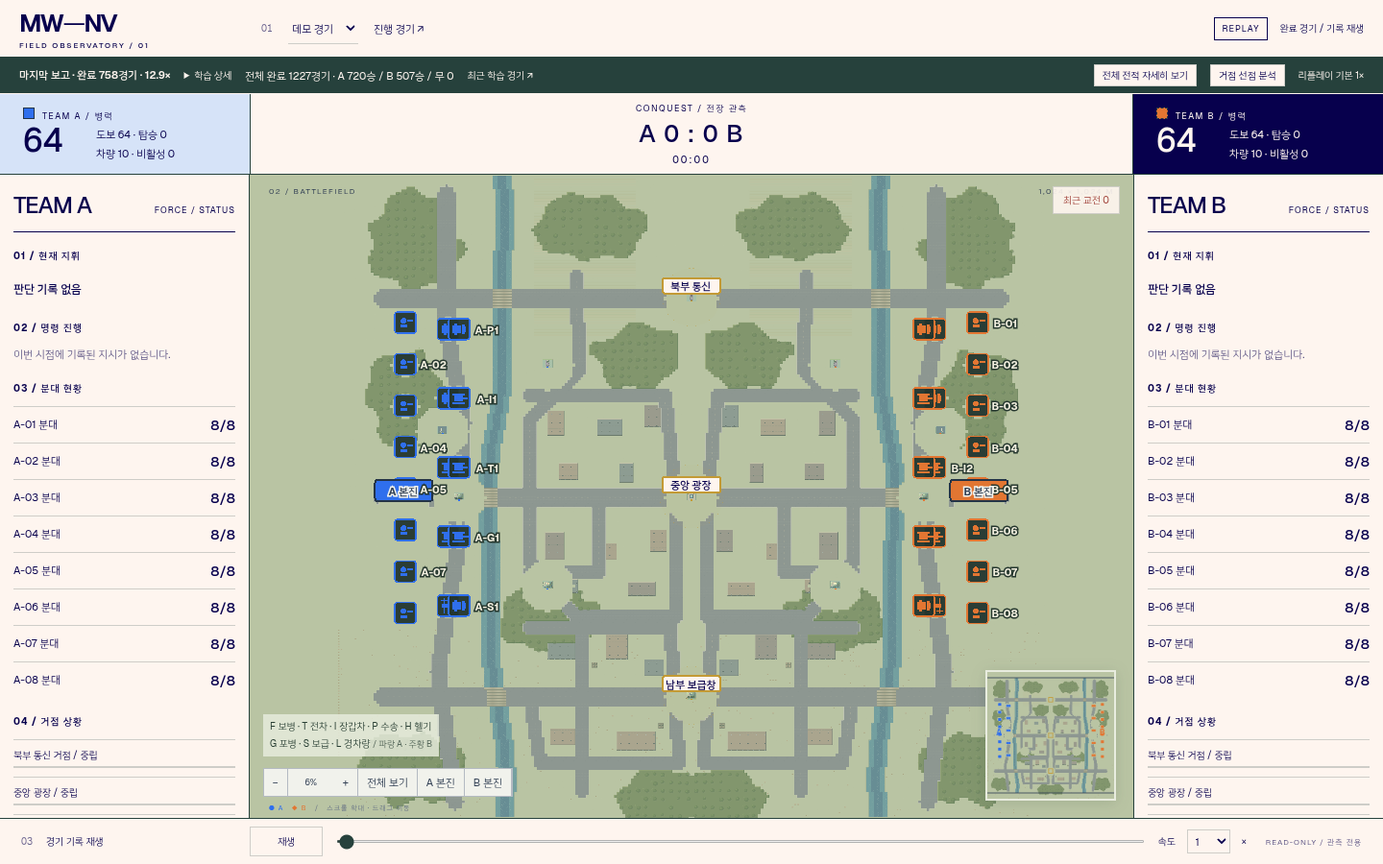
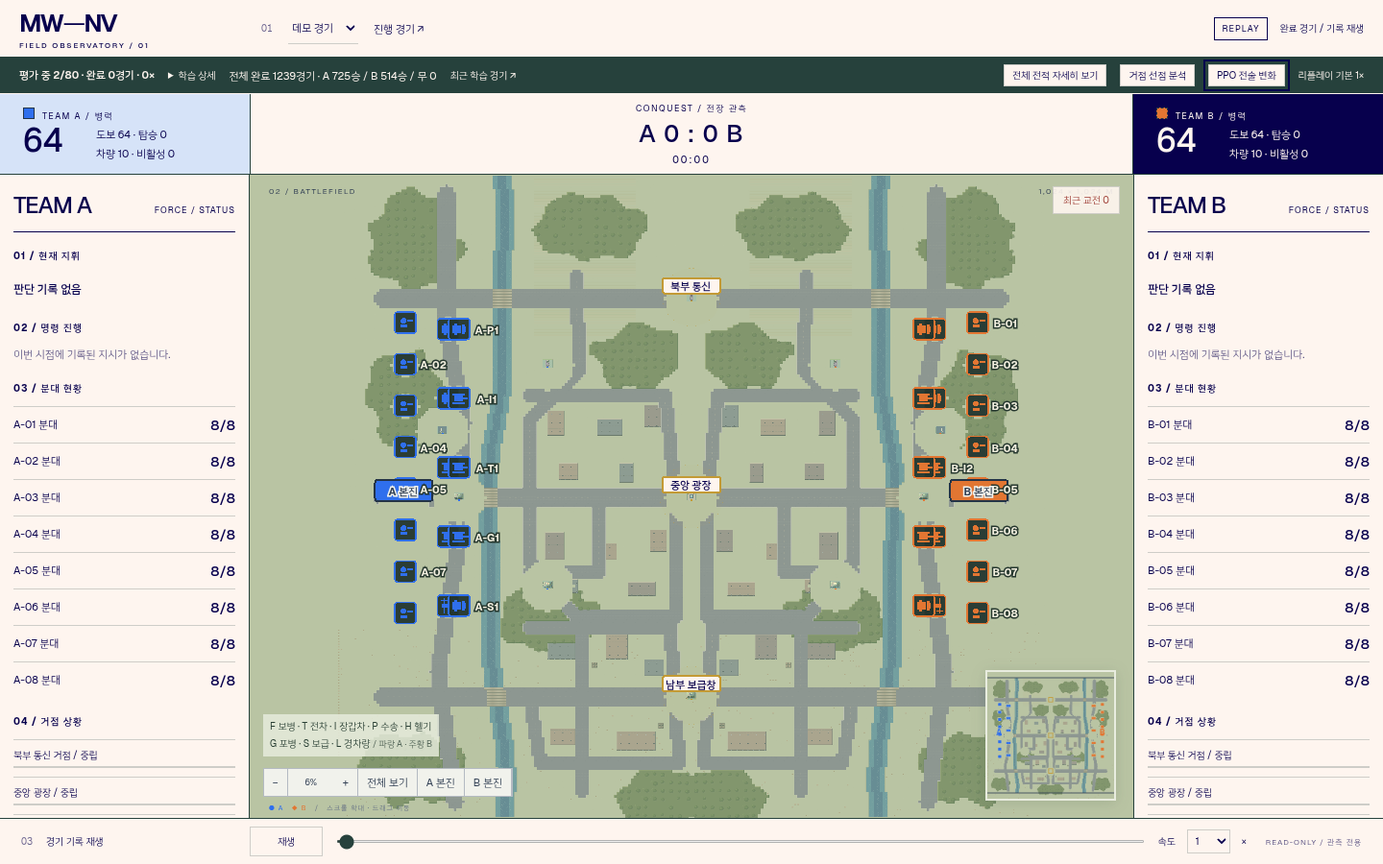
feat(viewer): expose learner tactics and finalize readable combat observation

Changed region(s): [[0.0, 0.0622, 0.375, 0.0933], [0.7188, 0.0622, 0.9375, 0.1244]]

diff --git a/v1.0.0/viewer/src/battlefield.js b/v1.0.0/viewer/src/battlefield.js
@@ -17,15 +17,14 @@ export class Battlefield{
   if(this.chunks.size>20)for(const [key,g] of [...this.chunks].sort((a,b)=>a[1].used-b[1].used)){if(this.chunks.size<=20)break;if(!g.visible){this.chunks.delete(key);g.destroy({children:true,texture:true,textureSource:true});}}
   for(const f of frame.facilities)this.facility(f);
   for(const u of frame.units){let actor=this.sprites.get(u.id);const profile=typeOf(u),x=u.x_cm*.12,y=u.y_cm*.12;if(!actor){const sprite=new Sprite(this.atlas.get(u.type_id,u.team));sprite.anchor.set(.5);sprite.roundPixels=true;const marker=new Graphics();if(u.team===0)marker.circle(0,0,2.5).fill(FIELD.a).stroke({width:1,color:FIELD.ground});else marker.poly([0,-3,3,0,0,3,-3,0]).fill(FIELD.b).stroke({width:1,color:FIELD.ground});const health=new Graphics(),shadow=new Graphics();shadow.ellipse(4,5,profile.size[0]*.48,profile.size[1]*.29).fill({color:0x293d32,alpha:.22});this.actors.addChild(shadow,sprite,marker,health);actor={sprite,marker,health,shadow,x,y,heading:u.team===0?0:Math.PI};this.sprites.set(u.id,actor);if(['MBT','SPH','IFV'].includes(u.type_id)){const key=`${u.type_id}:${u.team}`;if(!this.turretTextures.has(key))this.turretTextures.set(key,turretTexture(u.type_id,u.team));actor.turret=new Sprite(this.turretTextures.get(key));actor.turret.anchor.set(.5);this.actors.addChild(actor.turret);}actor.badge=new Text({text:profile.kind==='vehicle'?`${u.team===0?'A':'B'} ${u.type_id}`:u.type_id==='AT'?'AT':'',style:{fontFamily:'Geist, NanumSquare',fontSize:11,fill:FIELD.ink,stroke:{color:FIELD.ground,width:2}}});actor.badge.anchor.set(.5);actor.badge.resolution=this.app.renderer.resolution;this.screenLabels.addChild(actor.badge);}const dx=x-actor.x,dy=y-actor.y,moving=Math.hypot(dx,dy)>.05;if(moving)actor.heading=Math.round(Math.atan2(dy,dx)/(Math.PI/4))*Math.PI/4;actor.x=x;actor.y=y;if(u.target_id!=null&&profile.kind==='infantry'){const target=frame.units.find(t=>t.id===u.target_id);if(target)actor.heading=Math.atan2(target.y_cm-u.y_cm,target.x_cm-u.x_cm);}
-  const visible=u.alive!==false&&u.carrier_id==null,animation=u.type_id==='SPH'&&u.deployment==='DEPLOYED'?2:u.type_id==='HEL'||moving||u.task_state==='MOVING'?1+Math.floor(time*5)%2:0;actor.sprite.texture=this.atlas.get(u.type_id,u.team,animation);actor.sprite.position.set(x,y);actor.shadow.position.set(x,y);actor.shadow.visible=visible&&this.detail;actor.sprite.rotation=actor.heading+(profile.kind==='infantry'?Math.PI/2:0);actor.sprite.visible=(visible||profile.kind==='vehicle'&&u.alive===false)&&this.detail;actor.sprite.tint=u.alive===false?0x69746c:0xffffff;actor.sprite.alpha=u.alive===false?.45:1;if(actor.turret){actor.turret.position.set(x,y);actor.turret.rotation=u.turret_heading??actor.heading;actor.turret.visible=visible&&this.detail;}actor.badge.text=(profile.kind==='vehicle'?`${u.team===0?'A':'B'} ${u.type_id}`:u.type_id==='AT'?'AT':'')+(u.deployment==='DEPLOYED'?' / 設':'');actor.badge.position.set(x*c.zoom+c.x,y*c.zoom+c.y-Math.max(20,profile.size[1]*c.zoom/2+9));actor.badge.visible=visible&&this.detail;if(profile.kind==='vehicle'){actor.badge.text=entityName(frame,u.id);actor.badge.style.fontSize=11;actor.badge.position.set(x*c.zoom+c.x,y*c.zoom+c.y-Math.max(18,profile.size[1]*c.zoom/2+10)-14);}actor.marker.position.set(x,y);actor.marker.scale.set(1/c.zoom);actor.marker.visible=false;}
+  const margin=Math.max(80,Math.max(...profile.size)*c.zoom/2+8),onScreen=x*c.zoom+c.x>=-margin&&x*c.zoom+c.x<=this.host.clientWidth+margin&&y*c.zoom+c.y>=-margin&&y*c.zoom+c.y<=this.host.clientHeight+margin,visible=u.alive!==false&&u.carrier_id==null&&onScreen,animation=u.type_id==='SPH'&&u.deployment==='DEPLOYED'?2:u.type_id==='HEL'||moving||u.task_state==='MOVING'?1+Math.floor(time*5)%2:0;actor.sprite.texture=this.atlas.get(u.type_id,u.team,animation);actor.sprite.position.set(x,y);actor.shadow.position.set(x,y);actor.shadow.visible=visible&&this.detail;actor.sprite.rotation=actor.heading+(profile.kind==='infantry'?Math.PI/2:0);actor.sprite.visible=onScreen&&(visible||profile.kind==='vehicle'&&u.alive===false)&&this.detail;actor.sprite.tint=u.alive===false?0x69746c:0xffffff;actor.sprite.alpha=u.alive===false?.45:1;if(actor.turret){actor.turret.position.set(x,y);actor.turret.rotation=u.turret_heading??actor.heading;actor.turret.visible=visible&&this.detail;}actor.badge.text=(profile.kind==='vehicle'?`${u.team===0?'A':'B'} ${u.type_id}`:u.type_id==='AT'?'AT':'')+(u.deployment==='DEPLOYED'?' / 設':'');actor.badge.position.set(x*c.zoom+c.x,y*c.zoom+c.y-Math.max(20,profile.size[1]*c.zoom/2+9));actor.badge.visible=visible&&this.detail;if(profile.kind==='vehicle'){actor.badge.text=entityName(frame,u.id);actor.badge.style.fontSize=11;actor.badge.position.set(x*c.zoom+c.x,y*c.zoom+c.y-Math.max(18,profile.size[1]*c.zoom/2+10)-14);}actor.marker.position.set(x,y);actor.marker.scale.set(1/c.zoom);actor.marker.visible=false;}
   this.effects.clear();
-  for(const u of frame.units){const a=this.sprites.get(u.id);a.health.clear();if(u.alive===false||u.carrier_id!=null||u.hp==null||c.zoom<.35)continue;const width=20/c.zoom;a.health.rect(-width/2,-18,width,3/c.zoom).fill(FIELD.ink).rect(-width/2,-18,width*Math.max(0,Math.min(1,u.hp/(u.max_hp??100))),3/c.zoom).fill(u.hp<30?0xc43b38:0x4c8050);if(u.max_ammo&&c.zoom>=.6)a.health.rect(-width/2,-13,width,2/c.zoom).fill(FIELD.ink).rect(-width/2,-13,width*Math.max(0,Math.min(1,u.ammo/u.max_ammo)),2/c.zoom).fill(0xa8904b);a.health.position.set(u.x_cm*.12,u.y_cm*.12);}
   this.vfx.update(frame,frame.render_time??frame.tick/5,c.zoom,this.reducedMotion,c);
   const selected=frame.units.find(u=>u.id===this.hovered?.id);if(selected?.range_m&&selected.alive!==false&&selected.carrier_id==null&&typeOf(selected).spec?.attack){this.effects.circle(selected.x_cm*.12,selected.y_cm*.12,selected.range_m*12).stroke({color:FIELD.ink,width:1/c.zoom,alpha:.5});if(selected.min_range_m)this.effects.circle(selected.x_cm*.12,selected.y_cm*.12,selected.min_range_m*12).stroke({color:0xa33a26,width:1/c.zoom,alpha:.5});}
   const damage=(frame.damage??[]).filter(d=>frame.tick-d.tick<=8).slice(0,24);for(let i=0;i<Math.max(damage.length,this.damageLabels.length);i++){if(!this.damageLabels[i]){const label=new Text({text:'',style:{fontFamily:'Geist, NanumSquare',fontSize:14,fill:0x8e3f2f,stroke:{color:FIELD.ground,width:3}}});label.anchor.set(.5);label.resolution=this.app.renderer.resolution;this.screenLabels.addChild(label);this.damageLabels.push(label);}const label=this.damageLabels[i],d=damage[i],u=d&&frame.units.find(u=>u.id===d.unit);label.visible=!!u&&c.zoom>=.35;if(u){label.text=`−${d.damage}`;label.position.set((d.x_cm??u.x_cm)*.12*c.zoom+c.x,(d.y_cm??u.y_cm)*.12*c.zoom+c.y-25-(frame.tick-d.tick)*3);}}
   this.overlay.update(frame);this.drawMini(frame);
  }
- facility(f){let item=this.facilities.get(f.id);if(!item){const kind=f.kind==='OBJECTIVE'?f.id===201?'TOWER':f.id===202?'PLAZA':'DEPOT':f.kind;if(!this.facilityTextures.has(kind))this.facilityTextures.set(kind,facilityTexture(kind));const group=new Container(),zone=new Graphics(),sprite=new Sprite(this.facilityTextures.get(kind));sprite.anchor.set(.5);const flag=new Graphics().rect(-16,-9,32,18).fill(0xffffff);flag.position.set(0,66);const label=new Text({text:f.kind==='OBJECTIVE'?`${f.id} / ${kind} / ${f.id===201?'탐지 +20%':f.id===202?'순환 추가 점수':'보급 +8/분'}`:FACILITY_NAMES[f.kind]??f.kind,style:{fontFamily:'NanumSquare',fontSize:11,fill:FIELD.ink}});label.anchor.set(.5);label.position.set(0,-96);label.resolution=this.app.renderer.resolution;group.addChild(zone,sprite,flag);this.screenLabels.addChild(label);this.structures.addChild(group);item={group,zone,sprite,flag,label,radius:null};this.facilities.set(f.id,item);}item.group.position.set(f.x_cm*.12,f.y_cm*.12);item.flag.tint=f.owner==null?FIELD.neutral:f.owner===0?FIELD.a:FIELD.b;item.label.visible=this.detail;item.label.position.set(f.x_cm*.12*this.camera.zoom+this.camera.x,f.y_cm*.12*this.camera.zoom+this.camera.y-96*this.camera.zoom);if(f.kind==='OBJECTIVE'&&f.radius_cm&&item.radius!==f.radius_cm){item.radius=f.radius_cm;item.zone.clear().circle(0,0,f.radius_cm*.12).fill({color:0xffffff,alpha:.035}).stroke({width:2,color:0xffffff,alpha:.4});}item.zone.tint=f.owner==null?FIELD.neutral:f.owner===0?FIELD.a:FIELD.b;}
+ facility(f){let item=this.facilities.get(f.id);if(!item){const kind=f.kind==='OBJECTIVE'?f.id===201?'TOWER':f.id===202?'PLAZA':'DEPOT':f.kind;if(!this.facilityTextures.has(kind))this.facilityTextures.set(kind,facilityTexture(kind));const group=new Container(),zone=new Graphics(),sprite=new Sprite(this.facilityTextures.get(kind));sprite.anchor.set(.5);const flag=new Graphics().rect(-16,-9,32,18).fill(0xffffff);flag.position.set(0,66);const label=new Text({text:f.kind==='OBJECTIVE'?`${f.id} / ${kind} / ${f.id===201?'탐지 +20%':f.id===202?'순환 추가 점수':'보급 +8/분'}`:FACILITY_NAMES[f.kind]??f.kind,style:{fontFamily:'NanumSquare',fontSize:11,fill:FIELD.ink}});label.anchor.set(.5);label.position.set(0,-96);label.resolution=this.app.renderer.resolution;group.addChild(zone,sprite,flag);this.screenLabels.addChild(label);this.structures.addChild(group);item={group,zone,sprite,flag,label,radius:null};this.facilities.set(f.id,item);}item.group.position.set(f.x_cm*.12,f.y_cm*.12);item.flag.tint=f.owner==null?FIELD.neutral:f.owner===0?FIELD.a:FIELD.b;item.label.visible=this.detail&&f.kind!=='OBJECTIVE';item.label.position.set(f.x_cm*.12*this.camera.zoom+this.camera.x,f.y_cm*.12*this.camera.zoom+this.camera.y-96*this.camera.zoom);if(f.kind==='OBJECTIVE'&&f.radius_cm&&item.radius!==f.radius_cm){item.radius=f.radius_cm;item.zone.clear().circle(0,0,f.radius_cm*.12).fill({color:0xffffff,alpha:.035}).stroke({width:2,color:0xffffff,alpha:.4});}item.zone.tint=f.owner==null?FIELD.neutral:f.owner===0?FIELD.a:FIELD.b;}
  drawMini(frame){const ctx=this.minimap.getContext('2d'),size=this.minimap.width;ctx.imageSmoothingEnabled=false;ctx.clearRect(0,0,size,size);ctx.drawImage(this.mapBackground,0,0,size,size);for(const f of frame.facilities){if(f.kind==='HQ'){ctx.fillStyle=f.owner===0?'#2f6fed':'#e27632';ctx.font='bold 12px sans-serif';ctx.fillText(f.owner===0?'A':'B',f.x_cm/(this.data.width_m*100)*size-4,f.y_cm/(this.data.height_m*100)*size);continue;}if(f.kind!=='OBJECTIVE')continue;ctx.strokeStyle=f.owner==null?'#c39a35':f.owner===0?'#2f6fed':'#e27632';ctx.strokeRect(f.x_cm/(this.data.width_m*100)*size-3,f.y_cm/(this.data.height_m*100)*size-3,6,6);}for(const u of frame.units){if(u.alive===false||u.carrier_id!=null)continue;ctx.fillStyle=u.team===0?'#2f6fed':'#e27632';ctx.fillRect(u.x_cm/(this.data.width_m*100)*size-1,u.y_cm/(this.data.height_m*100)*size-1,3,3);}const c=this.camera;ctx.strokeStyle='#334155';ctx.lineWidth=1;ctx.strokeRect(-c.x/c.zoom/c.width*size,-c.y/c.zoom/c.height*size,this.host.clientWidth/c.zoom/c.width*size,this.host.clientHeight/c.zoom/c.height*size);}
  hit(x,y){if(!this.frame)return null;const group=this.overlay.hit(x,y);if(group)return group;const c=this.camera;if(!this.detail)return null;let best=null,distance=Infinity;for(const u of this.frame.units){if(u.alive===false||u.carrier_id!=null||this.overlay.hidden?.has(u.id))continue;const profile=typeOf(u),dx=x-(u.x_cm*.12*c.zoom+c.x),dy=y-(u.y_cm*.12*c.zoom+c.y),d=Math.hypot(dx,dy),r=profile.kind==='infantry'?Math.max(7,Math.min(12,6*c.zoom)):Math.max(10,Math.max(...profile.size)*c.zoom/2);if(d<r&&d<distance){distance=d;best=u;}}return best;}
  destroy(){this.vfx.destroy();this.camera.destroy();this.minimap.onclick=null;this.app.destroy(true,{children:true});this.atlas.destroy();this.tiles.destroy();for(const t of this.facilityTextures.values())t.destroy(true);for(const t of this.turretTextures.values())t.destroy(true);}

diff --git a/v1.0.0/viewer/src/tactical-overlay.js b/v1.0.0/viewer/src/tactical-overlay.js
@@ -19,7 +19,7 @@ export class TacticalOverlay{
  const grouped=groupedSquads(frame,z,this.far);this.far=grouped.far;this.groups=grouped.groups;this.hidden=new Set(this.groups.flatMap(g=>g.members));
  for(const u of frame.units){const a=s.sprites.get(u.id);if(!a)continue;const infantry=typeOf(u).kind==='infantry';a.health.clear();
  if(infantry){a.sprite.visible=false;a.shadow.visible=false;a.marker.visible=false;a.badge.visible=false;}
- if(u.alive===false||u.carrier_id!=null||this.hidden.has(u.id)||!s.detail)continue;
+ if(u.alive===false||u.carrier_id!=null||this.hidden.has(u.id)||!s.detail||u.x_cm*.12*z+s.camera.x<-60||u.x_cm*.12*z+s.camera.x>s.host.clientWidth+60||u.y_cm*.12*z+s.camera.y<-60||u.y_cm*.12*z+s.camera.y>s.host.clientHeight+60)continue;
  const x=u.x_cm*.12,y=u.y_cm*.12,team=TEAM[u.team],g=this.node(u.id);g.position.set(x,y);g.scale.set(1/z);
  if(infantry){const r=Math.max(6,Math.min(12,6*z));g.circle(0,0,r).fill(team).stroke({width:1,color:0x243447});if(u.team===1)g.moveTo(-r,0).lineTo(r,0).stroke({width:1,color:0xf1f2ec,alpha:.5});const h=a.heading;g.moveTo(Math.cos(h)*r,Math.sin(h)*r).lineTo(Math.cos(h+.55)*(r-3),Math.sin(h+.55)*(r-3)).lineTo(Math.cos(h-.55)*(r-3),Math.sin(h-.55)*(r-3)).closePath().fill(0xfff4c1);g.circle(-Math.cos(h)*3,-Math.sin(h)*3,2).fill(0x243447);
  if(z>=1.2||s.hovered?.id===u.id)this.label(`role:${u.id}`,u.type_id,x,y+18/z,z);
@@ -37,7 +37,7 @@ export class TacticalOverlay{
  for(const p of this.combats){const x=p.x_cm*.12,y=p.y_cm*.12,g=this.node(`combat:${p.id}`);g.position.set(x+18/z,y-16/z);g.scale.set(1/z);g.poly([0,-7,6,5,-6,5]).fill(0xb5483d).stroke({width:1,color:0xffe5c2});}
  const selected=frame.units.find(u=>u.id===s.selected)??this.groups.find(u=>Number(String(u.id).split(':')[1])===s.selected||u.id===s.selected);
  if(selected){const x=selected.x_cm*.12,y=selected.y_cm*.12,g=this.node('selection');g.position.set(x,y);g.circle(0,0,16/z).stroke({width:2/z,color:0xffedb0});const order=currentOrder(frame,selected),target=order&&(frame.facilities.find(f=>f.id===order.target)??frame.units.find(u=>u.id===order.target));const p=target??(order?.arg0!=null&&[2,7,10,14].includes(order.op)?{x_cm:order.arg0*100,y_cm:order.arg1*100}:null);if(p)g.moveTo(0,0).lineTo(p.x_cm*.12-x,p.y_cm*.12-y).stroke({width:1/z,color:TEAM[selected.team],alpha:.7});}
- for(const f of frame.facilities)if(f.kind==='OBJECTIVE'){const x=f.x_cm*.12,y=f.y_cm*.12,g=this.node(`objective:${f.id}`);g.position.set(x,y);g.scale.set(1/z);g.roundRect(-30,-20,60,16,2).fill(0xfef5ef).stroke({width:2,color:f.owner==null?0xc39a35:TEAM[f.owner]});const t=this.label(`objective:${f.id}`,entityName(frame,f.id),x,y-12/z,z);if(!t.semantic){t.style.fill=0x07004d;t.style.stroke={width:0};t.semantic=true;}}
+ for(const f of frame.facilities)if(f.kind==='OBJECTIVE'){const x=f.x_cm*.12,y=f.y_cm*.12,g=this.node(`objective:${f.id}`);g.position.set(x,y);g.scale.set(1/z);g.roundRect(-30,-38,60,16,2).fill(0xfef5ef).stroke({width:2,color:f.owner==null?0xc39a35:TEAM[f.owner]});const t=this.label(`objective:${f.id}`,entityName(frame,f.id),x,y-30/z,z);if(!t.semantic){t.style.fill=0x07004d;t.style.stroke={width:0};t.semantic=true;}}
  for(const f of frame.facilities)if(f.kind==='HQ'&&f.owner!=null){const x=f.x_cm*.12,y=f.y_cm*.12,g=this.node(`HQ:${f.id}`);g.position.set(x,y);g.scale.set(1/z);g.roundRect(-30,-17,60,22,3).fill(TEAM[f.owner]).stroke({width:2,color:0x243447});this.label(`HQ:${f.id}`,`${f.owner===0?'A':'B'} 본진`,x,y-6/z,z);}
  }
  hit(x,y){const c=this.scene.camera;for(const b of this.badges??[])if(Math.abs(x-b.ax)<=13&&Math.abs(y-b.ay)<=13)return b;for(const u of this.groups??[])if(this.scene.detail&&Math.abs(x-u.x_cm*.12*c.zoom-c.x)<34&&Math.abs(y-u.y_cm*.12*c.zoom-c.y)<23)return u;return null;}

diff --git a/v1.0.0/viewer/src/ui.js b/v1.0.0/viewer/src/ui.js
@@ -5,7 +5,7 @@ function el(tag,text,cls){const node=document.createElement(tag);if(text!==undef
 function section(title){const n=el('section',undefined,'panel-section');n.append(el('h2',title));return n;}
 export function renderHud(frame,onFocus){const p=project(frame);document.querySelector('#clock').textContent=p.clock;document.querySelector('#scores').textContent=`A ${p.scores[0]??0} : ${p.scores[1]??0} B`;
  for(const t of p.teams){const letter=t.team===0?'a':'b';document.querySelector(`#count-${letter}`).textContent=t.counts.alive;document.querySelector(`#detail-${letter}`).textContent=`도보 ${t.counts.on_foot} · 탑승 ${t.counts.onboard}`;document.querySelector(`#vehicles-${letter}`).textContent=`차량 ${t.counts.vehicles} · 비활성 ${t.counts.disabled}`;
-  const ledger=stats();const panel=document.querySelector(`#team-${letter}`),signature=JSON.stringify({ledger,decision:frame.decisions?.[t.team],counts:t.counts,orders:t.orders,roster:t.roster,squads:t.squads.map(s=>[s.id,s.living]),objectives:t.objectives,units:t.units.map(u=>[u.id,u.type_id,u.carrier_id,u.task_state,u.activity])});if(panel.dataset.signature===signature)continue;panel.dataset.signature=signature;const scroll=panel.scrollTop,fragment=document.createDocumentFragment(),heading=el('div',undefined,'panel-title');heading.append(el('h1',`TEAM ${letter.toUpperCase()}`),el('span','FORCE / STATUS'));fragment.append(heading);
+  const ledger=stats();const panel=document.querySelector(`#team-${letter}`),signature=JSON.stringify({ledger,learners:frame.learner_assignments,decision:frame.decisions?.[t.team],counts:t.counts,orders:t.orders,roster:t.roster,squads:t.squads.map(s=>[s.id,s.living]),objectives:t.objectives,units:t.units.map(u=>[u.id,u.type_id,u.carrier_id,u.task_state,u.activity])});if(panel.dataset.signature===signature)continue;panel.dataset.signature=signature;const scroll=panel.scrollTop,fragment=document.createDocumentFragment(),heading=el('div',undefined,'panel-title');heading.append(el('h1',`TEAM ${letter.toUpperCase()}`),el('span',frame.learner_assignments?.[letter.toUpperCase()]??'FORCE / STATUS'));fragment.append(heading);
   const roster=section('05 / 운용 병력');for(const r of t.roster){if(!r.count)continue;const row=el('div',undefined,'roster-row');row.append(el('span',r.name),el('strong',r.count));roster.append(row);}if(!t.counts.alive&&!t.counts.vehicles)roster.append(el('p','운용 중인 병력이 없습니다.','empty-state'));fragment.append(roster);
   const groups=section('03 / 분대 현황');for(const s of t.squads){const row=el('div',undefined,'roster-row');row.append(el('span',entityName(frame,s.id)),el('strong',`${s.living}/${s.member_ids.length}`));row.classList.add('squad-link');row.dataset.unitId=s.id;row.onclick=()=>onFocus(s.id);row.setAttribute('role','button');row.tabIndex=0;row.onkeydown=e=>{if(e.key==='Enter')onFocus(s.id);};groups.append(row);}if(!t.squads.length)groups.append(el('p','이 기록에는 분대 정보가 없습니다.','empty-state'));fragment.append(groups);
   const objectives=section('04 / 거점 상황');for(const f of t.objectives){const row=el('div',undefined,'objective-row');row.append(el('span',`${({201:'북부 통신 거점',202:'중앙 광장',203:'남부 보급창'})[f.id]??f.id} / ${f.owner==null?'중립':f.owner===t.team?'아군 통제':'상대 통제'}`));if(f.capturing!=null)row.append(el('small',`${f.capturing===0?'A':'B'}팀 ${f.owner==null?'점령':'중립화'} 중 · ${(f.progress_ms/1000).toFixed(1)}s`));const bar=el('div',undefined,'progress'),fill=el('i');fill.style.width=`${Math.min(100,f.progress_ms/(f.owner==null?20000:15000)*100)}%`;bar.append(fill);row.append(bar);objectives.append(row);}fragment.append(objectives);

diff --git a/v1.0.0/viewer/src/training.js b/v1.0.0/viewer/src/training.js
@@ -1,10 +1,10 @@
 export function describeTraining(data,now=Date.now()){
  if(!data||!Number.isFinite(Date.parse(data.updated_at)))return '학습 현황 — 연결 확인 불가';
  const stale=now-Date.parse(data.updated_at)>180000;
- return `${stale?'마지막 보고 · ':''}${({checkpoint_saved:'체크포인트 저장',evaluation:'보류 평가 중',stopped:'학습 중지'})[data.phase]??'PPO 학습 중'} · 업데이트 ${data.round} · 완료 ${data.games??0}경기 · 누적 완료 ${Number(data.completed_steps??0).toLocaleString()}스텝 · 정책 ${Number(data.policy_steps??0).toLocaleString()}스텝 · 시뮬레이션 ${data.sim_speed??'—'}× · ${data.maps??'—'} · ${data.map_id?data.map_id+' v'+data.map_version:'맵 —'} · CPU · ${data.nim_in_training?`NIM 교사 · ${data.teacher?.paired??0}회 수집`:'NIM 미사용'} · ${data.backup==='verified'?'백업 검증됨':data.backup?.startsWith('deferred')?'백업 재시도 대기':'10경기 백업 대기'} · ${new Date(data.updated_at).toLocaleTimeString('ko-KR')}`;
+ return `${stale?'마지막 보고 · ':''}${({checkpoint_saved:'체크포인트 저장',evaluation:'보류 평가 중',stopped:'학습 중지'})[data.phase]??'PPO 학습 중'}${data.phase==='evaluation'?` · 평가 항목 ${data.evaluation_cases??'—'}/${data.evaluation_total??'—'}`:''} · 업데이트 ${data.round} · 완료 ${data.games??0}경기 · 누적 완료 ${Number(data.completed_steps??0).toLocaleString()}스텝 · 정책 ${Number(data.policy_steps??0).toLocaleString()}스텝 · 시뮬레이션 ${data.sim_speed??'—'}× · ${data.maps??'—'} · ${data.map_id?data.map_id+' v'+data.map_version:'맵 —'} · ${data.learners?.map(l=>l.id+' '+Number(l.steps).toLocaleString()+'스텝').join(' / ')??'공유 정책'}${data.initial_evaluation_parallel?' · 초기 평가 병행 (평가1+학습1 CPU)':''} · 판단 ${data.decision_seconds??30}초 / 교사 ${data.teacher_seconds??30}초 · CPU · ${data.nim_in_training?`NIM 교사 · ${data.teacher?.paired??0}회 수집`:'NIM 미사용'} · ${data.backup==='verified'?'백업 검증됨':data.backup?.startsWith('deferred')?'백업 재시도 대기':'10경기 백업 대기'} · ${new Date(data.updated_at).toLocaleTimeString('ko-KR')}`;
 }
 export function startTrainingStatus(){
  const label=document.getElementById('training-text');if(!label)return;
- async function refresh(){try{const r=await fetch('/api/training',{cache:'no-store'});if(!r.ok)throw Error();const data=await r.json();const full=describeTraining(data);const old=Date.now()-Date.parse(data.updated_at)>180000;label.textContent=`${old?'마지막 보고':data.phase==='stopped'?'학습 중지':data.phase==='evaluation'?'평가 중':'PPO 학습'} · 완료 ${data.games??0}경기 · ${data.sim_speed??'—'}×`;document.getElementById('training-full').textContent=full;}catch{label.textContent='학습 현황 — 연결 확인 불가';}}
+ async function refresh(){try{const r=await fetch('/api/training',{cache:'no-store'});if(!r.ok)throw Error();const data=await r.json();const full=describeTraining(data);const old=Date.now()-Date.parse(data.updated_at)>180000;label.textContent=`${old?'마지막 보고':data.phase==='stopped'?'학습 중지':data.phase==='evaluation'?'평가 중':'PPO 학습'}${data.phase==='evaluation'&&data.evaluation_total?` ${data.evaluation_cases??0}/${data.evaluation_total}`:''} · 완료 ${data.games??0}경기 · ${data.sim_speed??'—'}×`;document.getElementById('training-full').textContent=full;}catch{label.textContent='학습 현황 — 연결 확인 불가';}}
  refresh();const timer=setInterval(refresh,30000);window.addEventListener('pagehide',()=>clearInterval(timer),{once:true});
 }

diff --git a/v1.0.0/viewer/src/league-view.js b/v1.0.0/viewer/src/league-view.js
@@ -1,0 +1,7 @@
+const roles={capture:'점령',defend:'방어',recon:'정찰',anti_armor:'대장갑',fire:'포격',transport:'수송',supply:'보급·증원',repair:'치료·수리',retreat:'후퇴'},variants={direct:'직접 지시',flank_north:'북측 경유',flank_south:'남측 경유',cover:'엄폐',transport_destination:'목적지 선택'};
+export function tacticName(key){const [role,variant]=key.split(':');return `${roles[role]??role} · ${variants[variant]??variant??''}`;}
+const text=(tag,value)=>{const e=document.createElement(tag);e.textContent=value;return e;};
+export function startLeagueView(){
+ const button=text('button','PPO 전술 변화'),dialog=document.createElement('dialog');button.id='league-open';dialog.id='league-dialog';dialog.className='history-dialog';const title=text('h2','PPO1 · PPO2 학습 변화'),close=text('button','닫기'),content=document.createElement('div');close.onclick=()=>dialog.close();dialog.append(title,close,content);document.body.append(dialog);document.querySelector('.training-strip')?.append(button);
+ button.onclick=async()=>{dialog.showModal();content.replaceChildren(text('p','불러오는 중…'));try{const response=await fetch('/api/insights',{cache:'no-store'});if(!response.ok)throw Error();const data=await response.json();content.replaceChildren(text('p','학습 경기의 관측 통계입니다. 승률·행동 빈도의 변화만으로 전술 향상이나 인과관계를 확정하지 않습니다.'));if(!data.runs?.length)content.append(text('p','새 학습 경기 기록이 아직 없습니다.'));for(const run of data.runs??[]){content.append(text('h3',`${run.run} · ${run.rules_version} · 완료 ${run.matches}경기`));for(const [name,l] of Object.entries(run.learners)){content.append(text('h3',`${name} · ${l.wins}승 ${l.losses}패 ${l.draws}무 · 승률 ${(l.win_rate*100).toFixed(1)}%`));content.append(text('p',`학습 ${Number(l.training_steps??0).toLocaleString()}스텝 · 최근 ${l.recent50_games??0}경기 ${l.recent50_wins??0}승 · 고정 상대 평가는 학습 상세에서 별도로 확인합니다.`));const table=document.createElement('table');table.className='objective-table';table.innerHTML='<thead><tr><th>전술</th><th>선택 가능 회차</th><th>선택 횟수</th><th>접수</th><th>완료</th><th>실패</th></tr></thead>';const body=document.createElement('tbody');for(const [role,n] of Object.entries(l.opportunities)){const tr=document.createElement('tr');for(const v of [tacticName(role),n,l.selected[role]??0,l.role_outcomes?(l.role_outcomes[role]?.ORDER_ACCEPTED??0):'—',l.role_outcomes?(l.role_outcomes[role]?.ORDER_COMPLETED??0):'—',l.role_outcomes?(l.role_outcomes[role]?.ORDER_FAILED??0):'—'])tr.append(text('td',String(v)));body.append(tr);}table.append(body);const scroll=document.createElement('div');scroll.className='league-table-scroll';scroll.append(table);content.append(scroll);const details=document.createElement('details');details.append(text('summary','최근 완료 경기 · 점수·팀·위치'));for(const r of [...l.recent].reverse()){const p=text('p',`${r.outcome==='wins'?'승':r.outcome==='losses'?'패':'무'} · A ${r.score[0]} : ${r.score[1]} B · ${r.team}팀 · ${r.swapped?'진영 교대':'기본 진영'} · ${r.match}`);p.style.color=r.outcome==='wins'?'#26413c':r.outcome==='losses'?'#a43d32':'#334155';details.append(p);}content.append(details);}}}catch{content.replaceChildren(text('p','전술 변화 기록 — 연결 확인 불가'));}};
+}

diff --git a/v1.0.0/viewer/src/combat-effects.js b/v1.0.0/viewer/src/combat-effects.js
@@ -29,6 +29,6 @@ export class CombatEffects{
   }
   this.base=Texture.from(canvas);this.base.source.scaleMode='nearest';this.textures=new Map();for(let k=0;k<KINDS.length;k++)for(let f=0;f<8;f++)this.textures.set(`${KINDS[k]}:${f}`,new Texture({source:this.base.source,frame:new Rectangle(f*48,k*48,48,48)}));
  }
- update(frame,time,zoom,reduced,camera){this.directions.clear();if(camera){const width=camera.host.clientWidth,height=camera.host.clientHeight;for(const shot of [...(frame.shots??[]),...(frame.projectiles??[])]){const origin=shot.origin,at=(shot.fired_tick??shot.tick)/5,age=time-at;if(!origin||age<0||age>1)continue;const sx=origin.x_cm*.12*zoom+camera.x,sy=origin.y_cm*.12*zoom+camera.y;if(sx>=0&&sx<=width&&sy>=0&&sy<=height)continue;const dx=sx-width/2,dy=sy-height/2,f=Math.min((width/2-18)/Math.max(1,Math.abs(dx)),(height/2-18)/Math.max(1,Math.abs(dy))),x=(width/2+dx*f-camera.x)/zoom,y=(height/2+dy*f-camera.y)/zoom,a=Math.atan2(dy,dx),r=8/zoom;this.directions.poly([x+Math.cos(a)*r,y+Math.sin(a)*r,x+Math.cos(a+2.4)*r,y+Math.sin(a+2.4)*r,x+Math.cos(a-2.4)*r,y+Math.sin(a-2.4)*r]).fill({color:0xe5b967,alpha:1-age});}}const samples=effectSamples(frame,time,reduced);for(let i=0;i<Math.max(this.pool.length,samples.length);i++){let s=this.pool[i];if(!s){s=new Sprite();s.anchor.set(.5);this.layer.addChild(s);this.pool.push(s);}const p=samples[i];s.visible=!!p;if(!p)continue;s.texture=this.textures.get(`${p.kind}:${p.frame}`);s.position.set(p.x,p.y);s.width=p.length??(p.kind==='blast'?p.size:Math.max(p.size,(p.kind==='flash'?7:4)/zoom));s.height=p.length?Math.max(1.5/zoom,p.size):s.width;s.rotation=p.rotation;s.alpha=p.alpha*(p.kind==='dust'?1-p.frame/8:1);}}
+ update(frame,time,zoom,reduced,camera){this.directions.clear();if(camera){const width=camera.host.clientWidth,height=camera.host.clientHeight;for(const shot of [...(frame.shots??[]),...(frame.projectiles??[])]){const origin=shot.origin,at=(shot.fired_tick??shot.tick)/5,age=time-at;if(!origin||age<0||age>1)continue;const sx=origin.x_cm*.12*zoom+camera.x,sy=origin.y_cm*.12*zoom+camera.y;if(sx>=0&&sx<=width&&sy>=0&&sy<=height)continue;const dx=sx-width/2,dy=sy-height/2,f=Math.min((width/2-18)/Math.max(1,Math.abs(dx)),(height/2-18)/Math.max(1,Math.abs(dy))),x=(width/2+dx*f-camera.x)/zoom,y=(height/2+dy*f-camera.y)/zoom,a=Math.atan2(dy,dx),r=8/zoom;this.directions.poly([x+Math.cos(a)*r,y+Math.sin(a)*r,x+Math.cos(a+2.4)*r,y+Math.sin(a+2.4)*r,x+Math.cos(a-2.4)*r,y+Math.sin(a-2.4)*r]).fill({color:0xe5b967,alpha:1-age});}}const samples=effectSamples(frame,time,reduced);for(let i=0;i<Math.max(this.pool.length,samples.length);i++){let s=this.pool[i];if(!s){s=new Sprite();s.anchor.set(.5);this.layer.addChild(s);this.pool.push(s);}const p=samples[i];s.visible=!!p;if(!p)continue;s.texture=this.textures.get(`${p.kind}:${p.frame}`);s.position.set(p.x,p.y);const minimum=['tank','rocket'].includes(p.kind)?16:p.kind==='flash'?14:10;s.width=p.length!=null?Math.max(p.length,24/zoom):(p.kind==='blast'?p.size:Math.max(p.size,minimum/zoom));s.height=p.length!=null?Math.max(16/zoom,p.size):s.width;s.rotation=p.rotation;s.alpha=p.alpha*(p.kind==='dust'?1-p.frame/8:1);}}
  destroy(){this.layer.destroy({children:true});for(const t of this.textures.values())t.destroy(false);this.base.destroy(true);}
 }

diff --git a/v1.0.0/viewer/src/style.css b/v1.0.0/viewer/src/style.css
@@ -27,3 +27,5 @@ main{display:grid;grid-template-columns:260px minmax(0,1fr) 260px;min-height:0}.
 @media(max-width:1100px){main{grid-template-columns:210px minmax(0,1fr) 210px}.status-bar{grid-template-columns:210px minmax(0,1fr) 210px}.training-strip{gap:8px}.training-strip>a{display:none}}
 @media(max-width:900px){#app{grid-template-rows:54px auto 80px 32px 1fr 48px}main{display:block}.status-bar{grid-template-columns:1fr 1fr 1fr}.status-team{grid-template-columns:36px 1fr;padding:8px;gap:3px}.status-team strong{font-size:28px}.status-team .eyebrow{font-size:7px}.status-team>span:not(.eyebrow){font-size:8px}.training-strip{padding:7px 12px;gap:7px}.training-strip #total-matches{font-size:10px}.training-strip #history-open{margin-left:0}.training-strip #training-text{font-size:10px}#selection-card{flex-wrap:wrap;gap:6px;top:40px;font-size:10px;padding:7px}#selection-card span{flex-basis:100%;order:3}#combat-list{top:12px;right:10px;max-width:160px}#map-legend{font-size:9px;bottom:86px;left:10px}#map-legend span{display:none}.map-tools{max-width:calc(100% - 100px);bottom:22px;left:10px}.map-tools button{padding:7px;font-size:10px}.map-tools span{min-width:32px}#minimap{width:78px;height:78px;right:10px;bottom:18px}.field-heading>span:last-child{display:none}}
 #objectives-open{order:3;padding:4px 8px;font-size:10px;background:var(--paper);color:var(--ink)}#objective-dialog{width:min(1000px,94vw);max-height:85dvh;overflow:auto;padding:20px;background:var(--paper);color:var(--ink);border:1px solid var(--green)}#objective-dialog::backdrop{background:#07004d66}#objective-dialog header{display:flex;justify-content:space-between;gap:12px;align-items:center;position:sticky;top:-20px;background:var(--paper);z-index:1;padding:10px 0}#objective-dialog h2{font-size:20px;margin:0}#objective-dialog h3{font-size:14px;margin:24px 0 12px}#objective-dialog p{font-size:12px;line-height:1.7}#objective-filters{display:flex;flex-wrap:wrap;gap:10px}#objective-filters label{display:grid;gap:5px;font-size:10px}#objective-filters select{font-size:11px;max-width:190px}.objective-table{overflow:auto}#objective-dialog table{width:100%;border-collapse:collapse;min-width:690px;font-size:11px}#objective-dialog th,#objective-dialog td{text-align:left;border-bottom:1px solid var(--line);padding:10px 8px;font-variant-numeric:tabular-nums}#objective-dialog th{background:var(--blue)}.objective-subrow{color:var(--green);font-size:10px}.objective-subrow td:first-child{padding-left:22px}
+
+#league-open{order:3;padding:4px 8px;font-size:10px;background:var(--paper);color:var(--ink)}#league-dialog{width:min(1000px,94vw);max-height:85dvh;overflow:auto;padding:20px;background:var(--paper);color:var(--ink);border:1px solid var(--green)}#league-dialog::backdrop{background:#07004d66}#league-dialog h2{font-size:20px}#league-dialog h3{font-size:14px;margin-top:24px}#league-dialog p,#league-dialog summary{font-size:12px;line-height:1.7}#league-dialog table{width:100%;min-width:570px;border-collapse:collapse;font-size:11px}#league-dialog td,#league-dialog th{text-align:left;padding:9px;border-bottom:1px solid var(--line)}#league-dialog th{background:var(--blue)}.league-table-scroll{overflow:auto}

diff --git a/v1.0.0/viewer/src/main.js b/v1.0.0/viewer/src/main.js
@@ -1,3 +1,4 @@
+import {startLeagueView} from './league-view.js';
 import {startObjectiveStatistics} from './objective-statistics.js';
 import {entityName,currentOrder,orderState,orderTarget,orderVerb} from './command-view.js';
 import {startHistory} from './history.js';
@@ -43,3 +44,5 @@ host.addEventListener('keydown',e=>{if(e.key==='Escape'&&scene){scene.selected=n
 for(const team of [0,1]){const b=document.createElement('button');b.textContent=`${team===0?'A':'B'} 본진`;b.onclick=()=>{const f=currentFrame?.facilities.find(f=>f.kind==='HQ'&&f.owner===team);if(f){scene.follow=false;scene.camera.zoom=.4;scene.camera.focus(f.x_cm*.12,f.y_cm*.12);}};document.querySelector('.map-tools').append(b);}
 
 if(['localhost','127.0.0.1'].includes(location.hostname))window.__mwViewState=()=>({zoom:scene?.camera.zoom,detail:scene?.detail,resolution:scene?.app.renderer.resolution,visibleVehicles:scene?[...scene.sprites.values()].filter(a=>a.turret?.visible).length:0,camera:{x:scene?.camera.x,y:scene?.camera.y},trackingPosition:currentFrame&&selectedEntity(currentFrame),effects:scene?.vfx.pool.filter(p=>p.visible).length??0,hovered:scene?.hovered?.id,selected:scene?.selected,follow:!!scene?.follow,badges:scene?.overlay.badges?.map(b=>({id:b.id,x:b.ax,y:b.ay,label:b.showLabel,w:b.w,h:b.h,type:b.type_id})),combat:scene?.overlay.combats?.length??0});
+
+startLeagueView();

diff --git a/v1.0.0/viewer/src/timeline.js b/v1.0.0/viewer/src/timeline.js
@@ -22,7 +22,7 @@ export class Timeline{
   if(kind==='UNIT_REPAIRED'&&u)u.hp=p.hp;
   if(kind==='UNIT_HEALED'&&u&&u.hp!=null)u.hp+=p.amount;
   if(kind==='DEPLOYMENT_CHANGED'&&u)u.deployment=p.deployment;
-  if(kind==='ARTILLERY_FIRED'){(this.state.projectiles??=[]).push({...p});if(u&&u.ammo!=null)u.ammo--;}
+  if(kind==='ARTILLERY_FIRED'){(this.state.projectiles??=[]).push({...p,fired_tick:p.fired_tick==null?undefined:p.fired_tick+1,impact_tick:p.impact_tick+1});if(u&&u.ammo!=null)u.ammo--;}
   if(['ARTILLERY_IMPACT','TANK_IMPACT'].includes(kind))(this.state.impacts??=[]).push({...p,tick:e.sim_tick+1});
   if(kind==='UNIT_DAMAGED'&&p.damage)(this.state.damage??=[]).push({...p,tick:e.sim_tick+1});
   if(kind==='HQ_DECISION')(this.state.decisions??={})[p.team]=structuredClone(p.metadata);

diff --git a/v1.0.0/viewer/league.test.js b/v1.0.0/viewer/league.test.js
@@ -1,0 +1,2 @@
+import {test} from 'node:test';import assert from 'node:assert/strict';import {tacticName} from './src/league-view.js';import {onRequestGet} from './functions/api/insights.js';
+test('learning tactics have human readable names and unavailable data stays unavailable',async()=>{assert.equal(tacticName('capture:flank_north'),'점령 · 북측 경유');const response=await onRequestGet({env:{}});assert.equal(response.status,503);});

diff --git a/v1.0.0/viewer/functions/api/insights.js b/v1.0.0/viewer/functions/api/insights.js
@@ -1,0 +1,2 @@
+import {cloudRequest} from '../../src/cloud-data.js';
+export async function onRequestGet({env}){try{return Response.json(await cloudRequest(env,'/storage/v1/object/authenticated/'+(env.REPLAY_BUCKET??'mw-nv-replays')+'/league-insights.json.gz'),{headers:{'Cache-Control':'no-store'}});}catch{return new Response('Learning insights unavailable',{status:503});}}

diff --git a/v1.0.0/server/app.py b/v1.0.0/server/app.py
@@ -15,6 +15,10 @@ def create_app(store=None,live_runner=None,lifespan=None):
         data=json.loads(path.read_text())
         if not data.get('summary',{}).get('ended'):raise HTTPException(404)
         return data
+    @app.get('/api/insights')
+    def learning_insights():
+        from learning.league_metrics import document
+        return document(root/'results.sqlite')
     @app.get('/api/objectives')
     def objective_statistics(mode:str='',rules_version:str='',catalog_version:str='',map_id:str='',map_version:str='',map_family:str='',swapped:str='',policy_a:str='',policy_b:str=''):
         from learning.objective_stats import document,report
